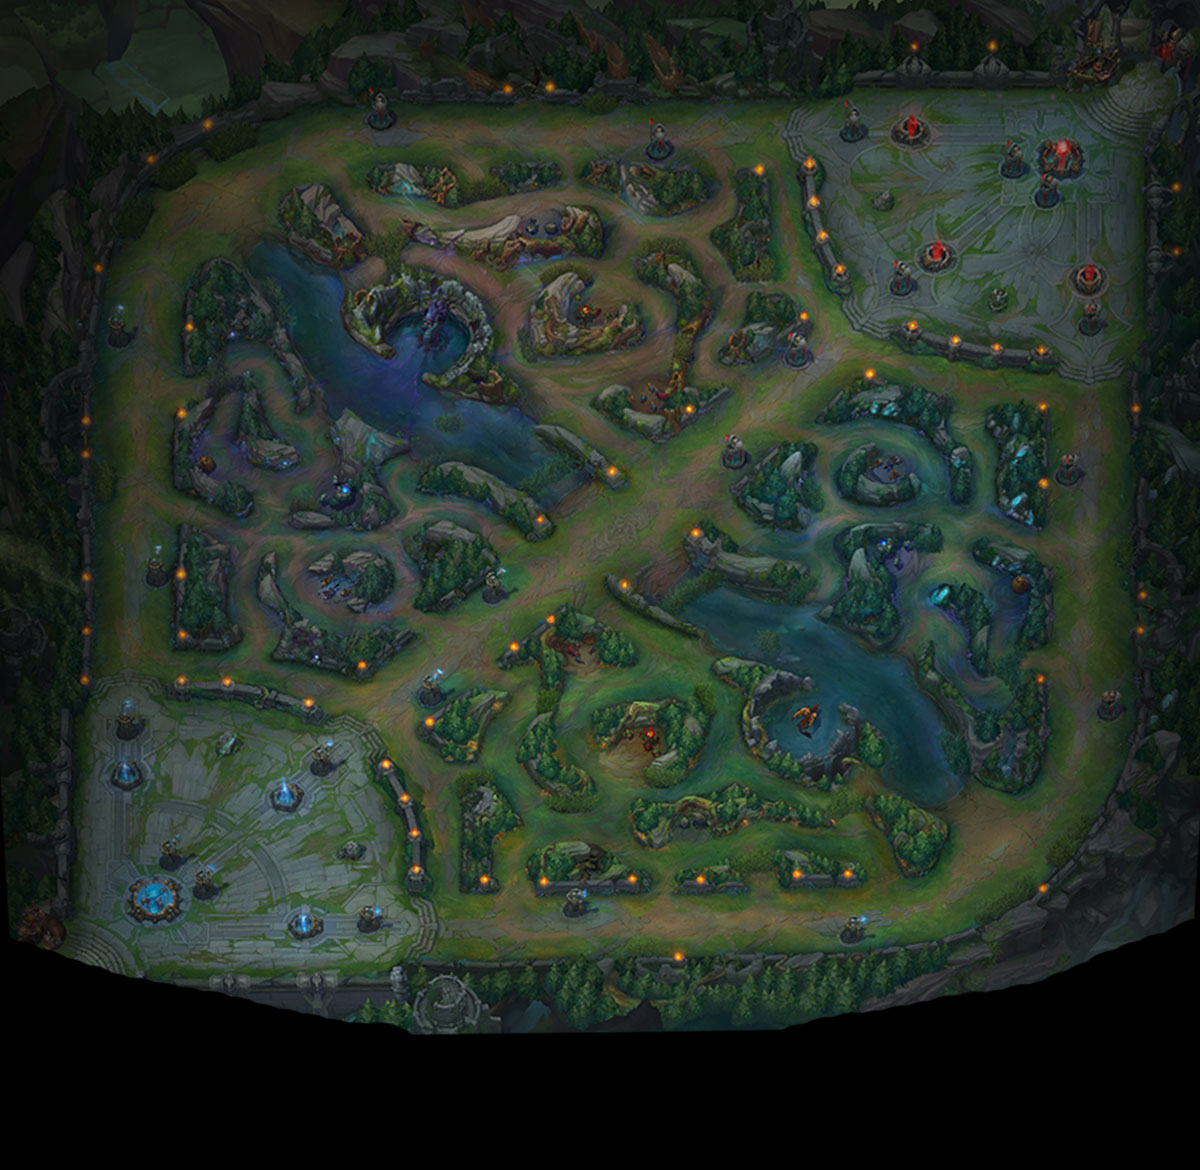
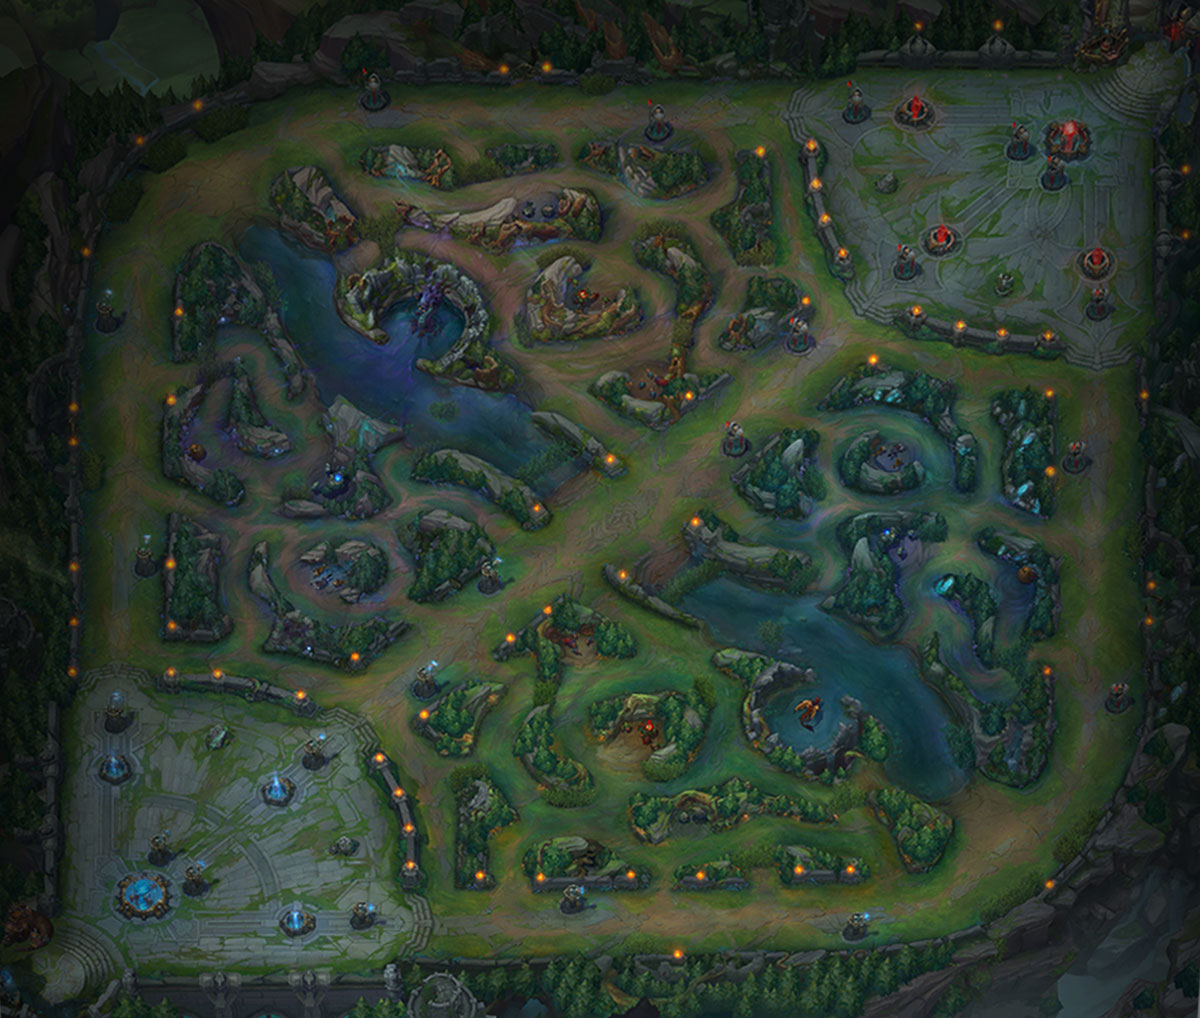
fixed map botom edges, champions in partial view

diff --git a/LoLApiChallenge/Content/Site.css b/LoLApiChallenge/Content/Site.css
@@ -22,7 +22,7 @@
     position: relative;
     background-image: url(Images/11.jpg);
     width: 1200px;
-    height: 1170px;
+    height: 1160px;
 }
 
 .heatmap {
@@ -35,7 +35,7 @@
     background-image: url(Images/11_1.png);
     width: 1200px;
     height: 261px;
-    top: 909px;
+    top: 899px;
 }
 
 .heatmap-loading {

diff --git a/LoLApiChallenge/Controllers/HomeController.cs b/LoLApiChallenge/Controllers/HomeController.cs
@@ -199,9 +199,9 @@ namespace LoLApiChallenge.Controllers
                     TotalKills = champ.data.stat.kills.totalKills,
                     TotalAssits = champ.data.stat.kills.totalAssists,
                     TotalWins = champ.data.totalWins,
-                    LargestCritStrike = champ.data.stat.damage.mostCriticalStrikeDamage,
-                    Name = cData.name,
-                    ImageUrl = "http://ddragon.leagueoflegends.com/cdn/5.7.2/img/champion/" + cData.key + ".png"
+                    LargestCritStrike = champ.data.stat.damage.mostCriticalStrikeDamage
+                    //Name = cData.name,
+                    //ImageUrl = "http://ddragon.leagueoflegends.com/cdn/5.7.2/img/champion/" + cData.key + ".png"
                 });
             }
             return champions;
